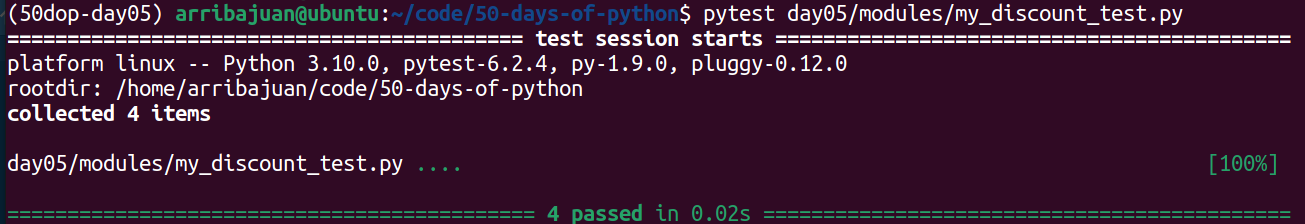
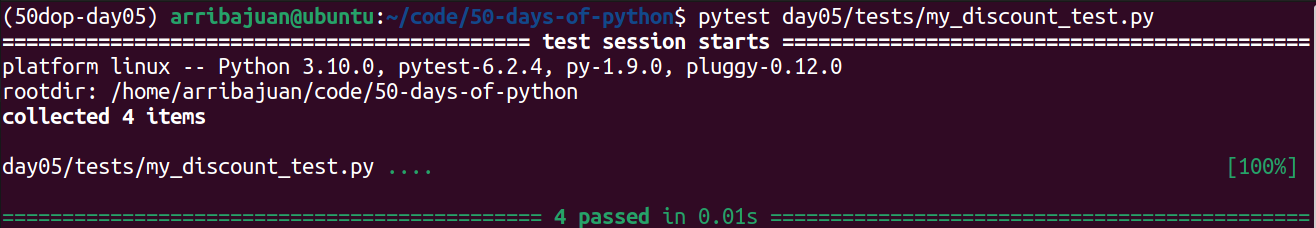
Day 5 - Refactor to move tests into its own folder

Changed region(s): [[0.0, 0.0, 1.0, 1.0], [0.9195, 0.6875, 1.0, 0.7812]]

diff --git a/day05/tests/main_test.py b/day05/tests/main_test.py
@@ -1,4 +1,4 @@
-from .main import app
+from day05.app.main import app
 from typer.testing import CliRunner
 
 runner = CliRunner()

diff --git a/day05/README.md b/day05/README.md
@@ -43,10 +43,12 @@ conda env create --file environment.txt
 
 # Run tests
 
+From the root of the codebase
+
 ## Test discount functionality
 
 ``` bash
-pytest day05/custom_modules/my_discount_test.py
+pytest day05/tests/my_discount_test.py
 ```
 
 ![Module test](image-day05-test-module.png "Module test")
@@ -54,10 +56,10 @@ pytest day05/custom_modules/my_discount_test.py
 ## Test CLI app
 
 ``` bash
-pytest my_discount_test.py
+pytest day05/tests/main_test.py
 ```
 
-![CLI test](image-day05-test.png "CLI test")
+![CLI test](image-day05-test-cli.png "CLI test")
 
 # Run cli app
 
